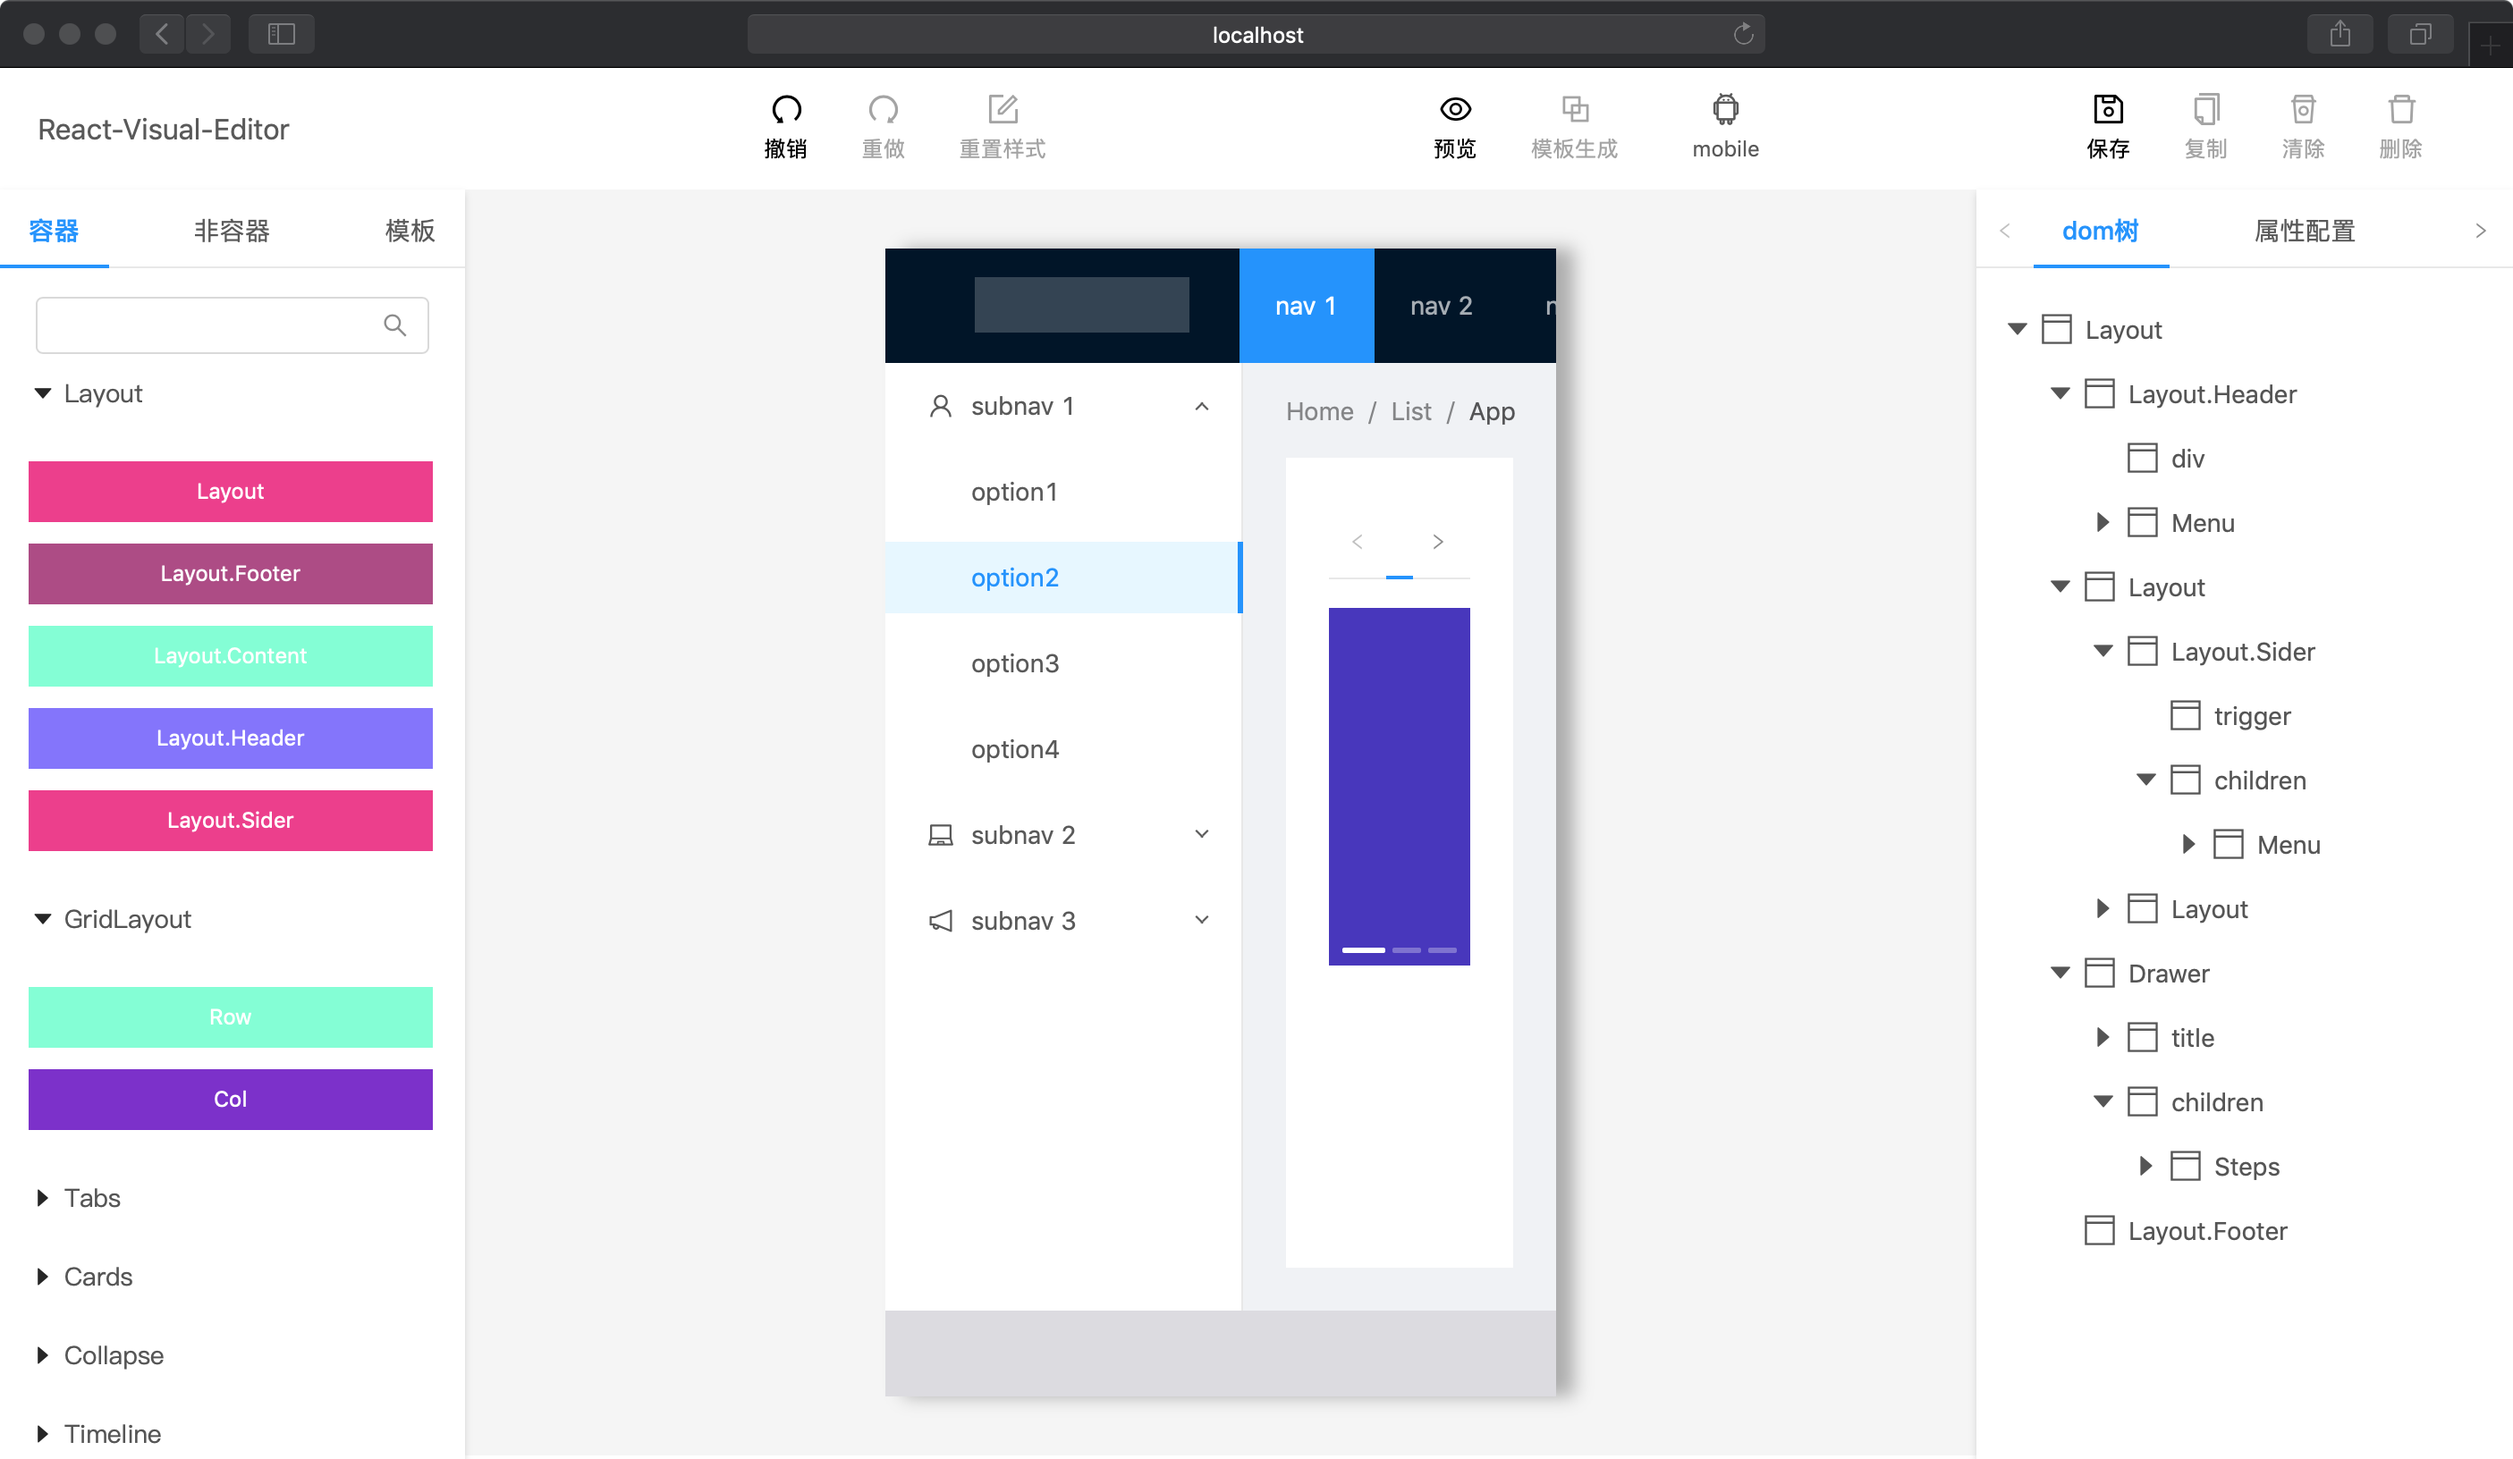
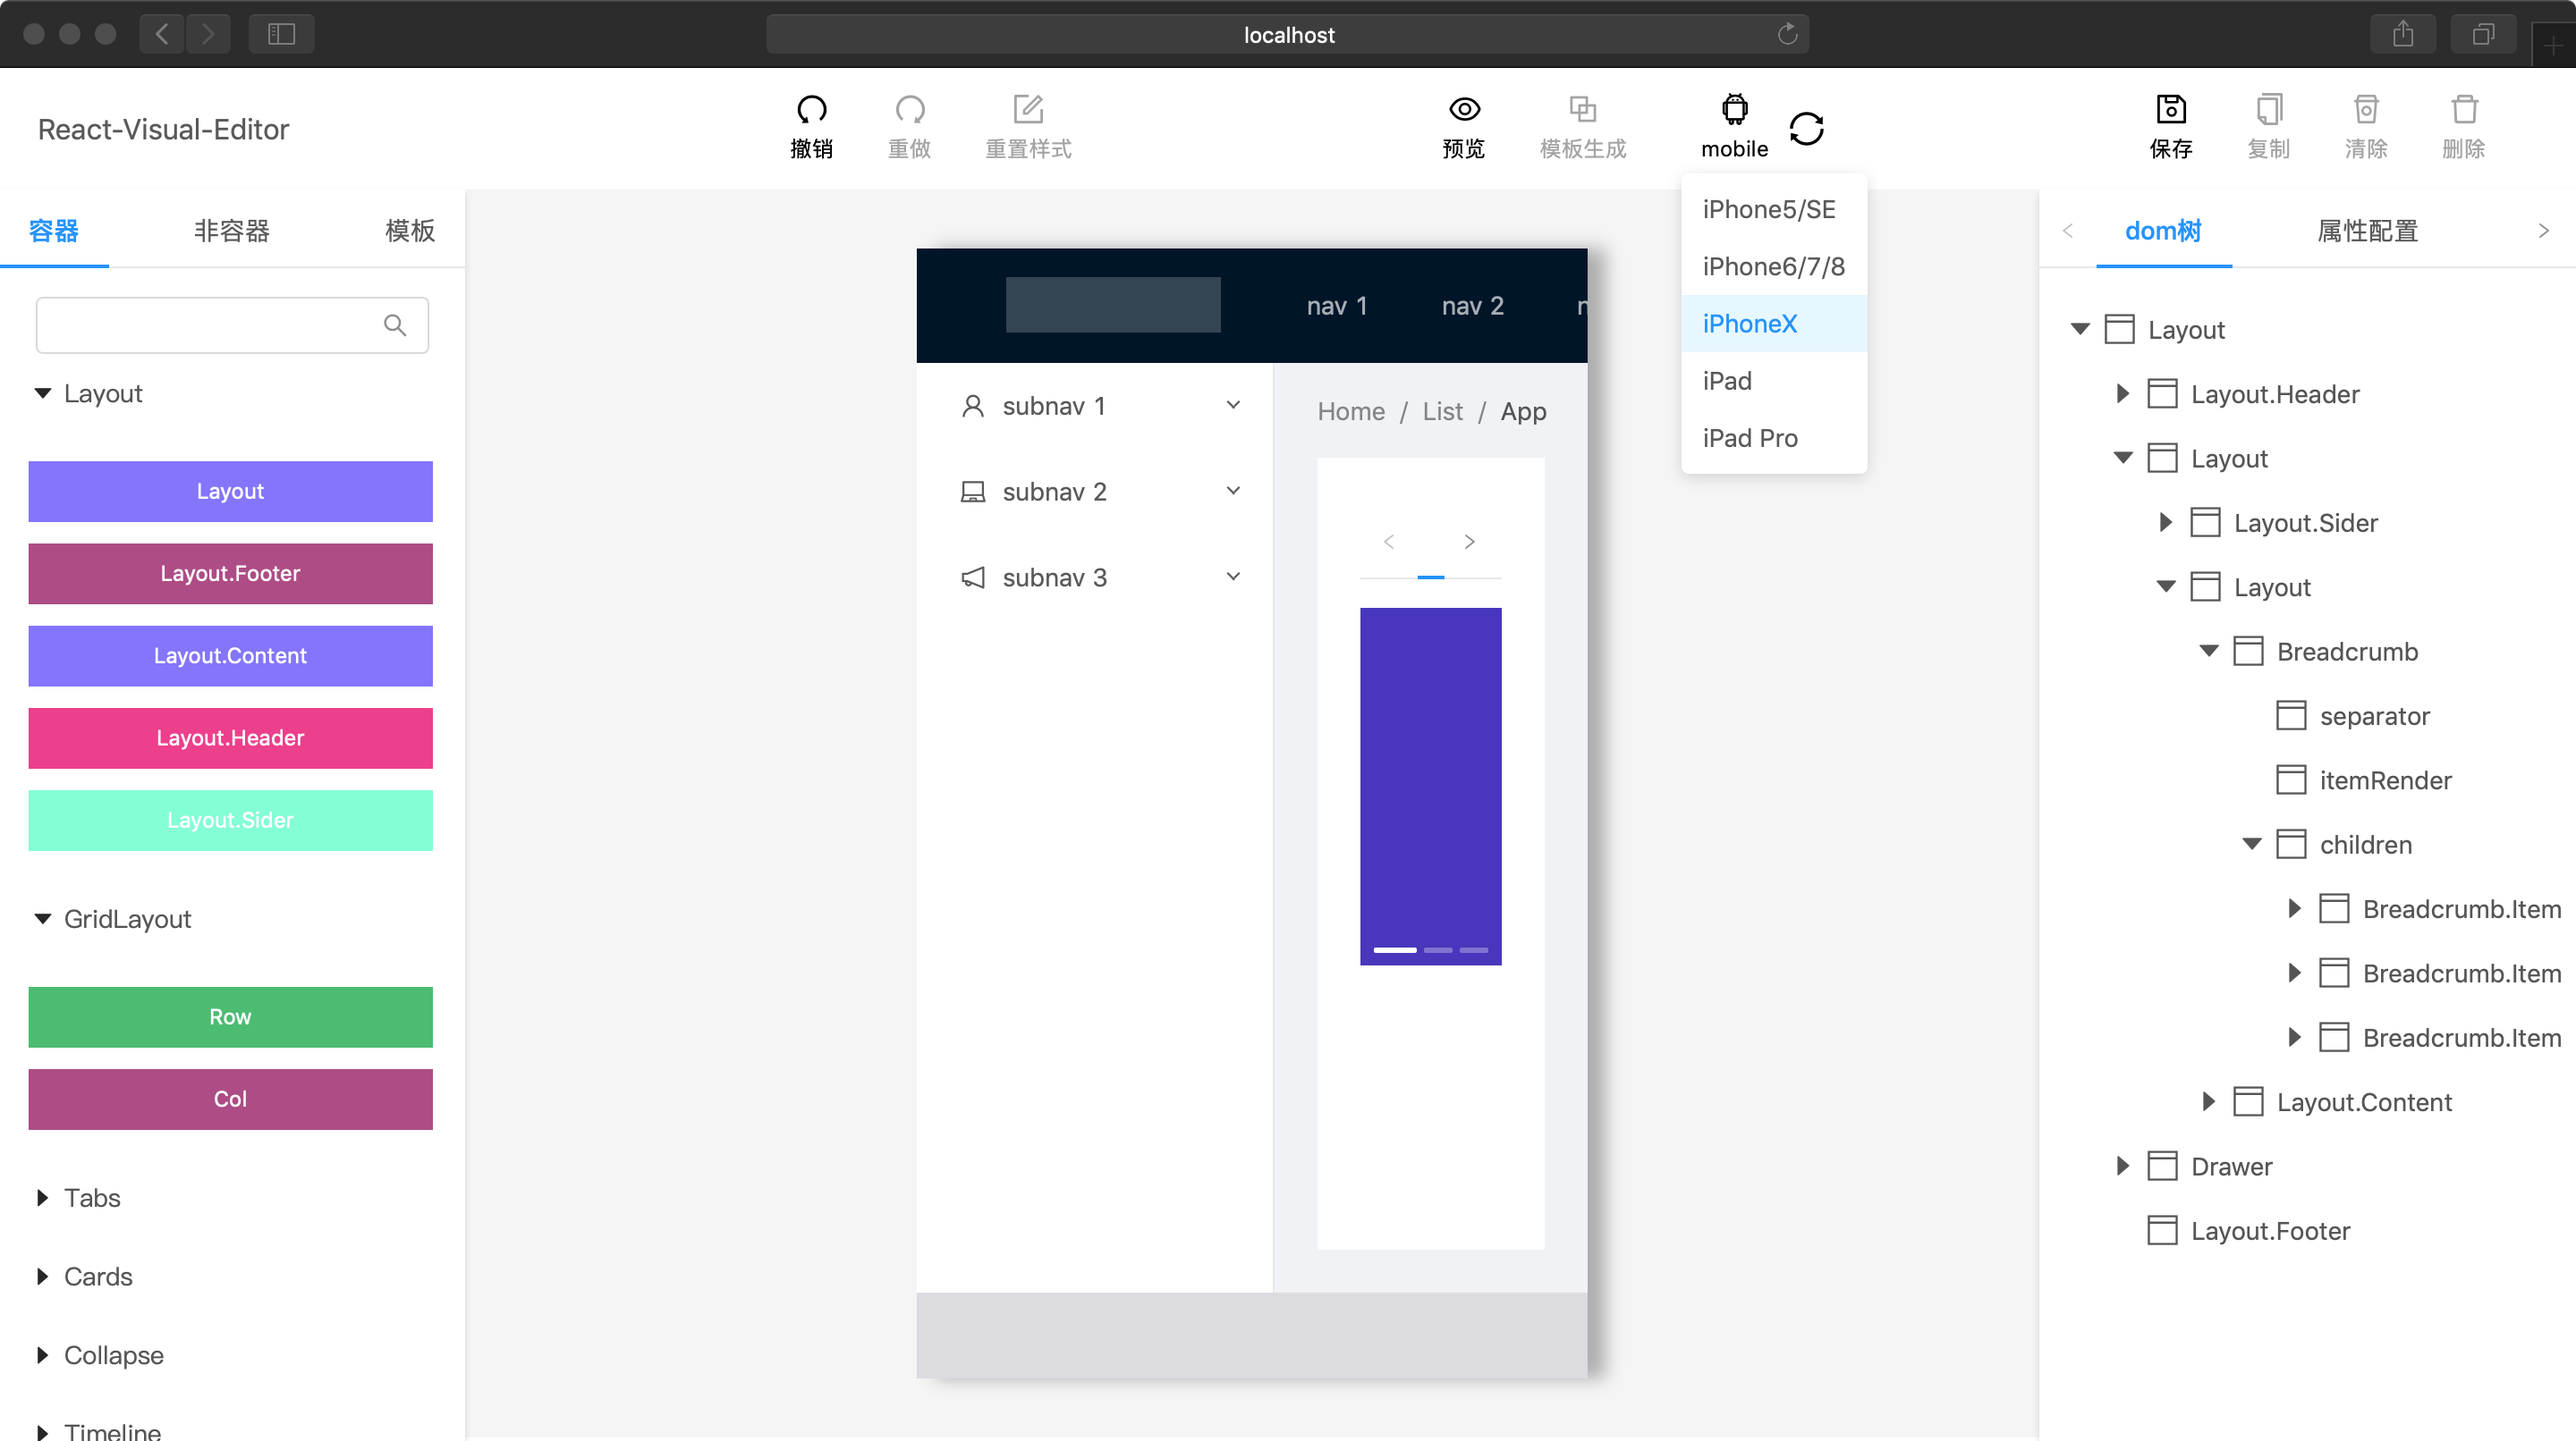
替换截图

diff --git a/README.md b/README.md
@@ -10,14 +10,13 @@
 - :video_camera:**模板功能**：可以选中局部或者整个页面做为可复用的模板，提高页面配置效率减少重复工作
 - :lock:**组件约束**：根据组件特性配置组件约束，减少组件间的错误嵌套和报错
 - :eyeglasses:**预览与代码生成**：可随时预览页面的真实效果，和页面的jsx代码与样式代码
+- :four_leaf_clover:**多平台支持** ：支持PC与移动端多型号设配切换展示
 - :dvd:**组件库替换** ：通过简单的配置可以对接任何React组件库
 
 ## SNAPSHOT
-
-![PC](./pc.png)
-
 ![mobile](./mobile.png)
 
+![PC](./pc.png)
 
 ## Usage
 
